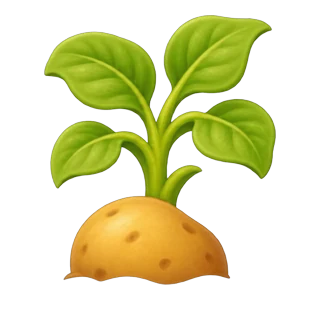
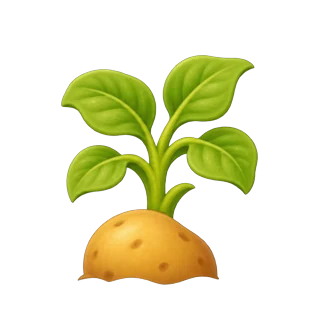
Plantes mûres : tailles harmonisées, champignon réduit (v3.0.12)
Claude-Session: https://claude.ai/code/session_018D5HKJWKwN88xpAGuhHMQJ

diff --git a/index.html b/index.html
@@ -6,13 +6,13 @@
   <title>Potager idle</title>
   <meta name="description" content="Un petit jeu idle de potager : plante, arrose, récolte, cuisine et découvre des variétés hybrides.">
   <meta name="theme-color" content="#fdf3e7" id="theme-color">
-  <link rel="manifest" href="manifest.webmanifest?v=343">
+  <link rel="manifest" href="manifest.webmanifest?v=344">
   <link rel="icon" href="icons/favicon-32.png" sizes="32x32" type="image/png">
   <link rel="icon" href="icons/favicon-64.png" sizes="64x64" type="image/png">
   <link rel="icon" href="icons/icon-192.png" sizes="192x192" type="image/png">
   <link rel="preload" href="fonts/nunito-latin.woff2" as="font" type="font/woff2" crossorigin>
   <link rel="preload" href="fonts/fredoka-latin.woff2" as="font" type="font/woff2" crossorigin>
-  <link rel="stylesheet" href="css/style.css?v=343">
+  <link rel="stylesheet" href="css/style.css?v=344">
 </head>
 <body>
 <div id="app">
@@ -45,25 +45,25 @@
 <div id="fx"></div>
 <div id="toasts" aria-live="polite"></div>
 
-<script src="js/env.js?v=343"></script>
-<script src="js/typo.js?v=343"></script>
-<script src="js/data.js?v=343"></script>
-<script src="assets/img/manifest.js?v=343"></script>
-<script src="js/art.js?v=343"></script>
-<script src="js/seasons.js?v=343"></script>
-<script src="js/sound.js?v=343"></script>
-<script src="js/achievements.js?v=343"></script>
-<script src="js/cloud-config.js?v=343"></script>
-<script src="js/cloud.js?v=343"></script>
-<script src="js/profile.js?v=343"></script>
-<script src="js/friends.js?v=343"></script>
-<script src="js/visit.js?v=343"></script>
-<script src="js/water.js?v=343"></script>
-<script src="js/trade.js?v=343"></script>
-<script src="js/like.js?v=343"></script>
-<script src="js/goals.js?v=343"></script>
-<script src="js/news.js?v=343"></script>
-<script src="js/tuto.js?v=343"></script>
-<script src="js/game.js?v=343"></script>
+<script src="js/env.js?v=344"></script>
+<script src="js/typo.js?v=344"></script>
+<script src="js/data.js?v=344"></script>
+<script src="assets/img/manifest.js?v=344"></script>
+<script src="js/art.js?v=344"></script>
+<script src="js/seasons.js?v=344"></script>
+<script src="js/sound.js?v=344"></script>
+<script src="js/achievements.js?v=344"></script>
+<script src="js/cloud-config.js?v=344"></script>
+<script src="js/cloud.js?v=344"></script>
+<script src="js/profile.js?v=344"></script>
+<script src="js/friends.js?v=344"></script>
+<script src="js/visit.js?v=344"></script>
+<script src="js/water.js?v=344"></script>
+<script src="js/trade.js?v=344"></script>
+<script src="js/like.js?v=344"></script>
+<script src="js/goals.js?v=344"></script>
+<script src="js/news.js?v=344"></script>
+<script src="js/tuto.js?v=344"></script>
+<script src="js/game.js?v=344"></script>
 </body>
 </html>

diff --git a/js/game.js b/js/game.js
@@ -1,7 +1,7 @@
 "use strict";
 /* Numéro de version affiché dans les Paramètres.
    À chaque mise à jour : changer APP_VERSION, le ?v= dans index.html et VERSION dans sw.js. */
-const APP_VERSION = "3.0.11" + (IS_TEST ? "-test" : "");
+const APP_VERSION = "3.0.12" + (IS_TEST ? "-test" : "");
 /* ---------------- Helpers ---------------- */
 const $ = s => document.querySelector(s);
 const now = () => Date.now();

diff --git a/sw.js b/sw.js
@@ -1,6 +1,6 @@
 /* Service worker de Potager idle : rend le jeu jouable hors-ligne.
    À chaque mise à jour du jeu, augmente VERSION pour que les téléphones téléchargent la nouvelle version. */
-const VERSION = "potager-v343";
+const VERSION = "potager-v344";
 const FILES = [
   "./",
   "index.html",

diff --git a/CHANGELOG.md b/CHANGELOG.md
@@ -122,6 +122,9 @@ Bonne saison au potager ! 🌸☀🍂❄
 
 ## Détail des mises à jour
 
+### 3.0.12
+- Plantes mûres : tailles harmonisées (le champignon des bois était bien trop grand).
+
 ### 3.0.11
 - Nouvelles images des plantes mûres, qui sortent de la terre : radis, pomme de terre, betterave, poireau, courgette, melon et champignon des bois.
 
